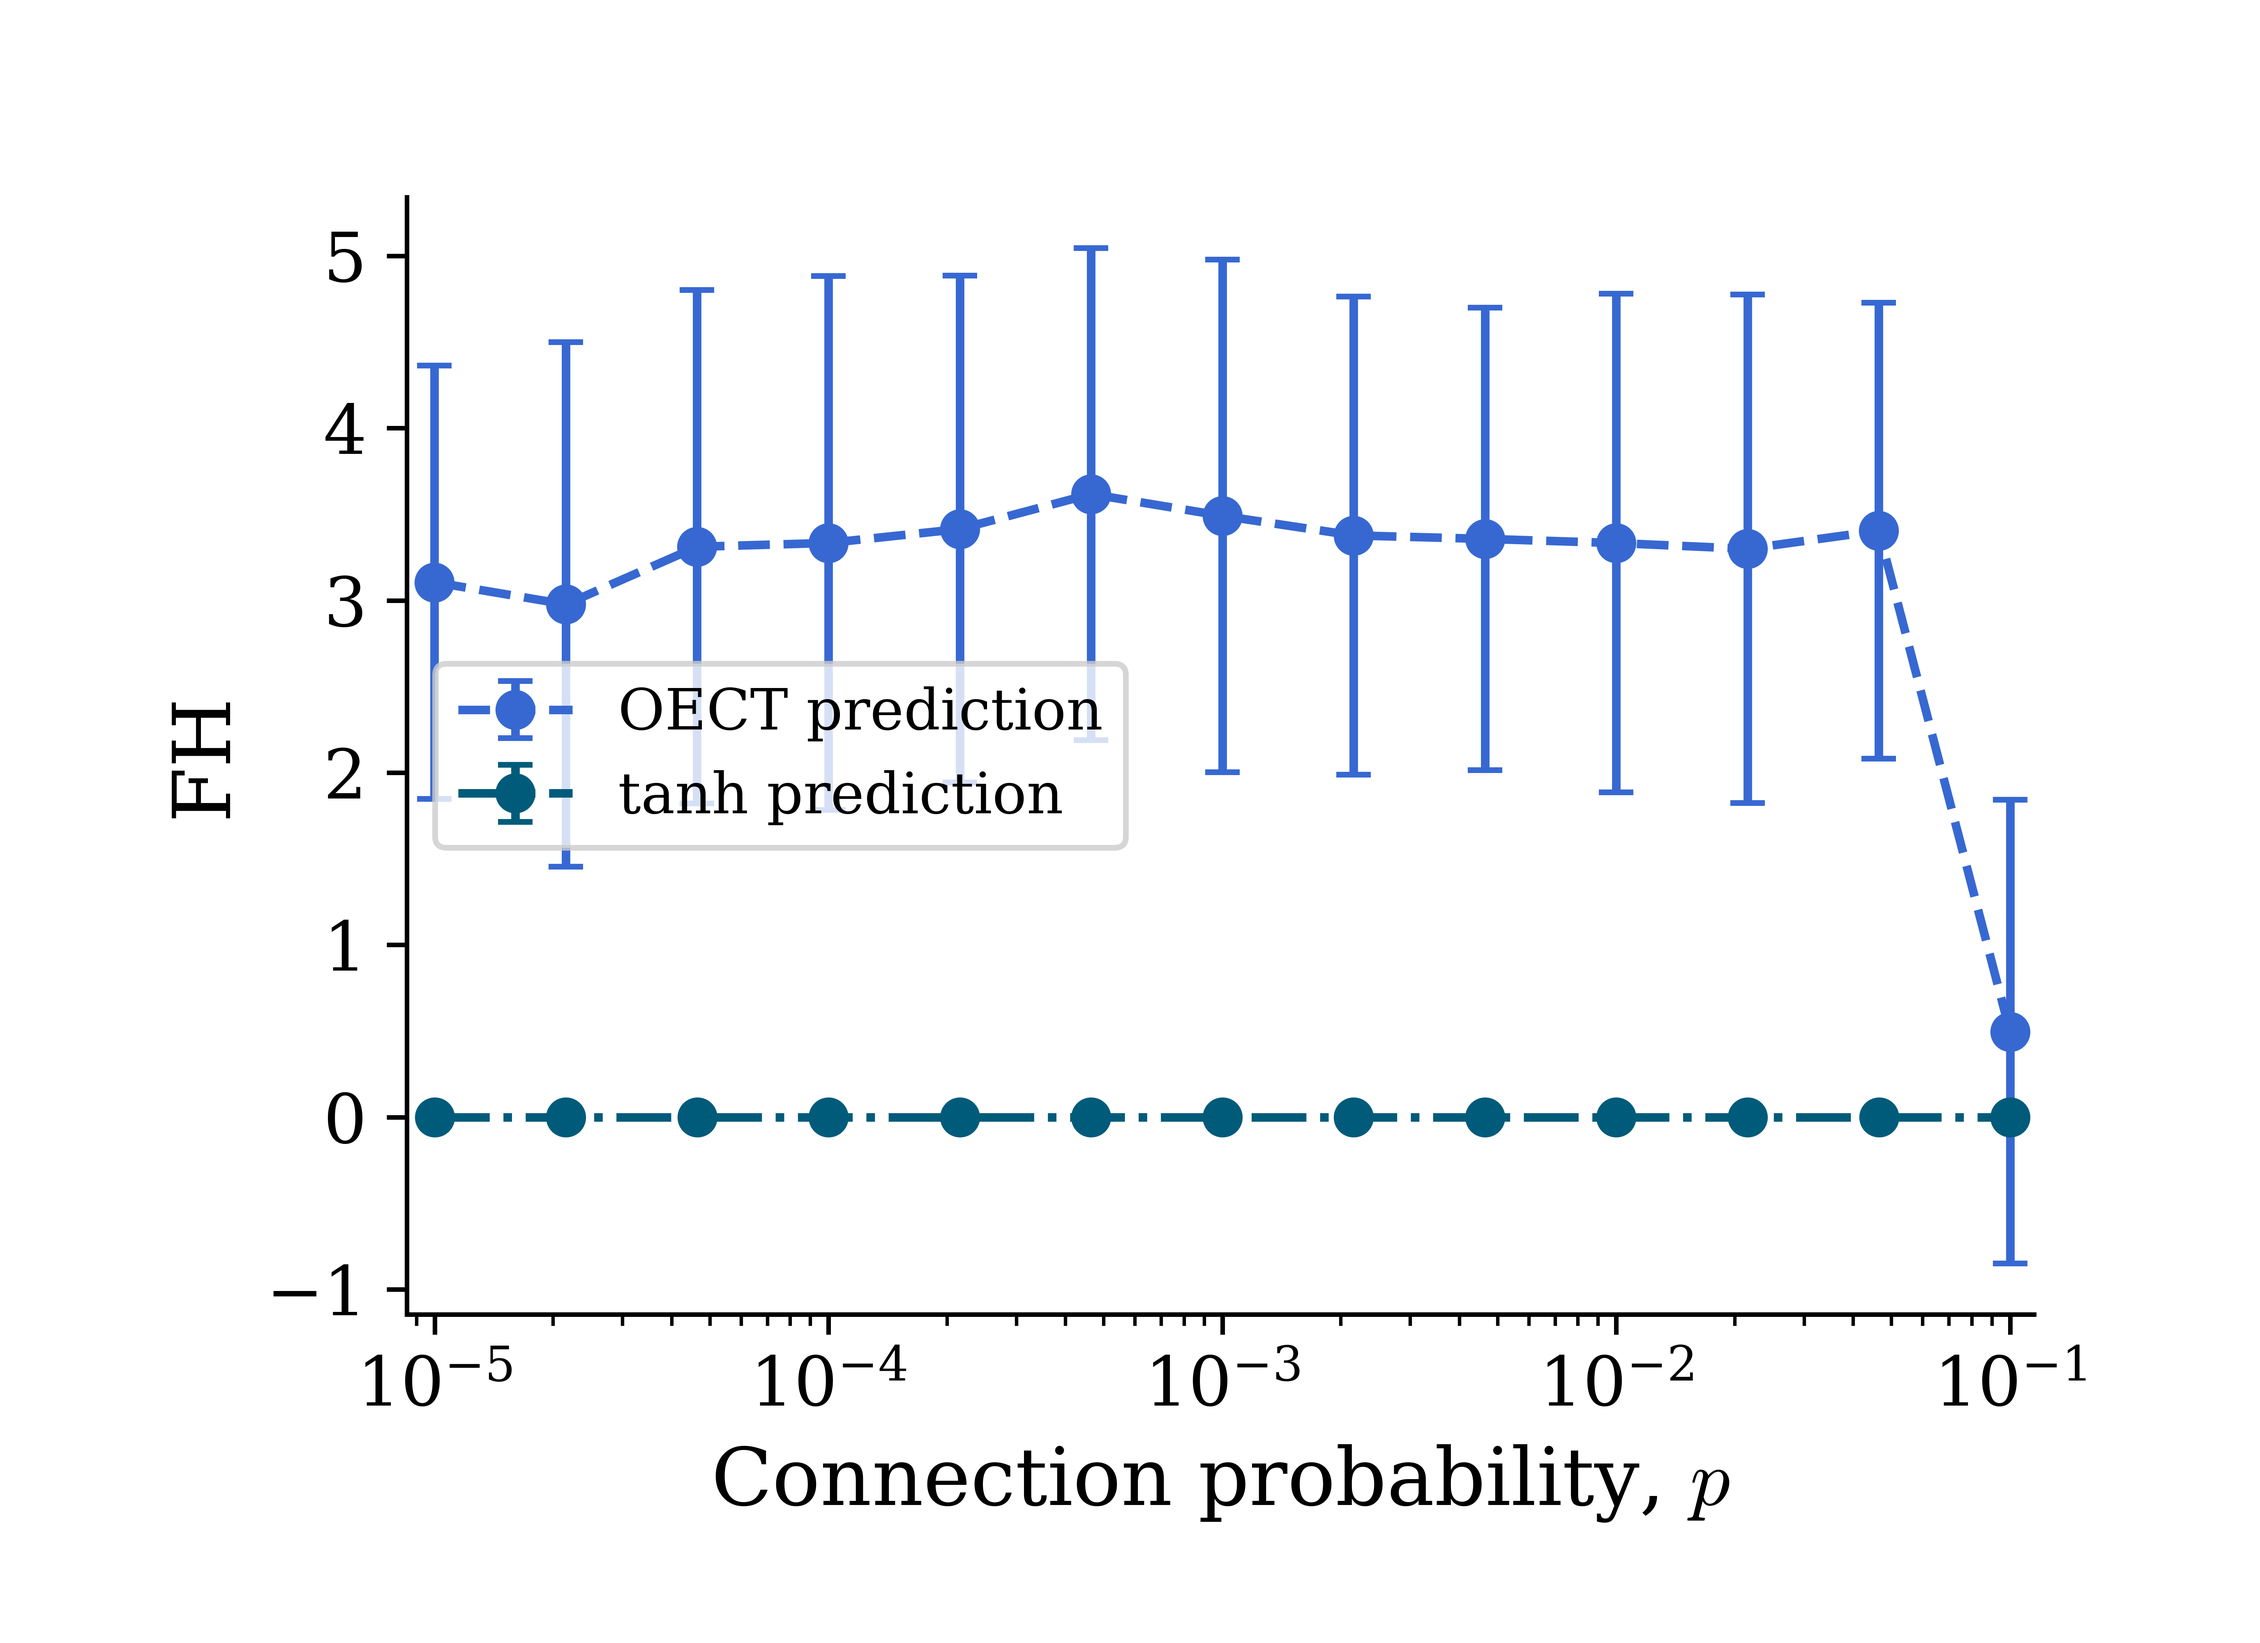
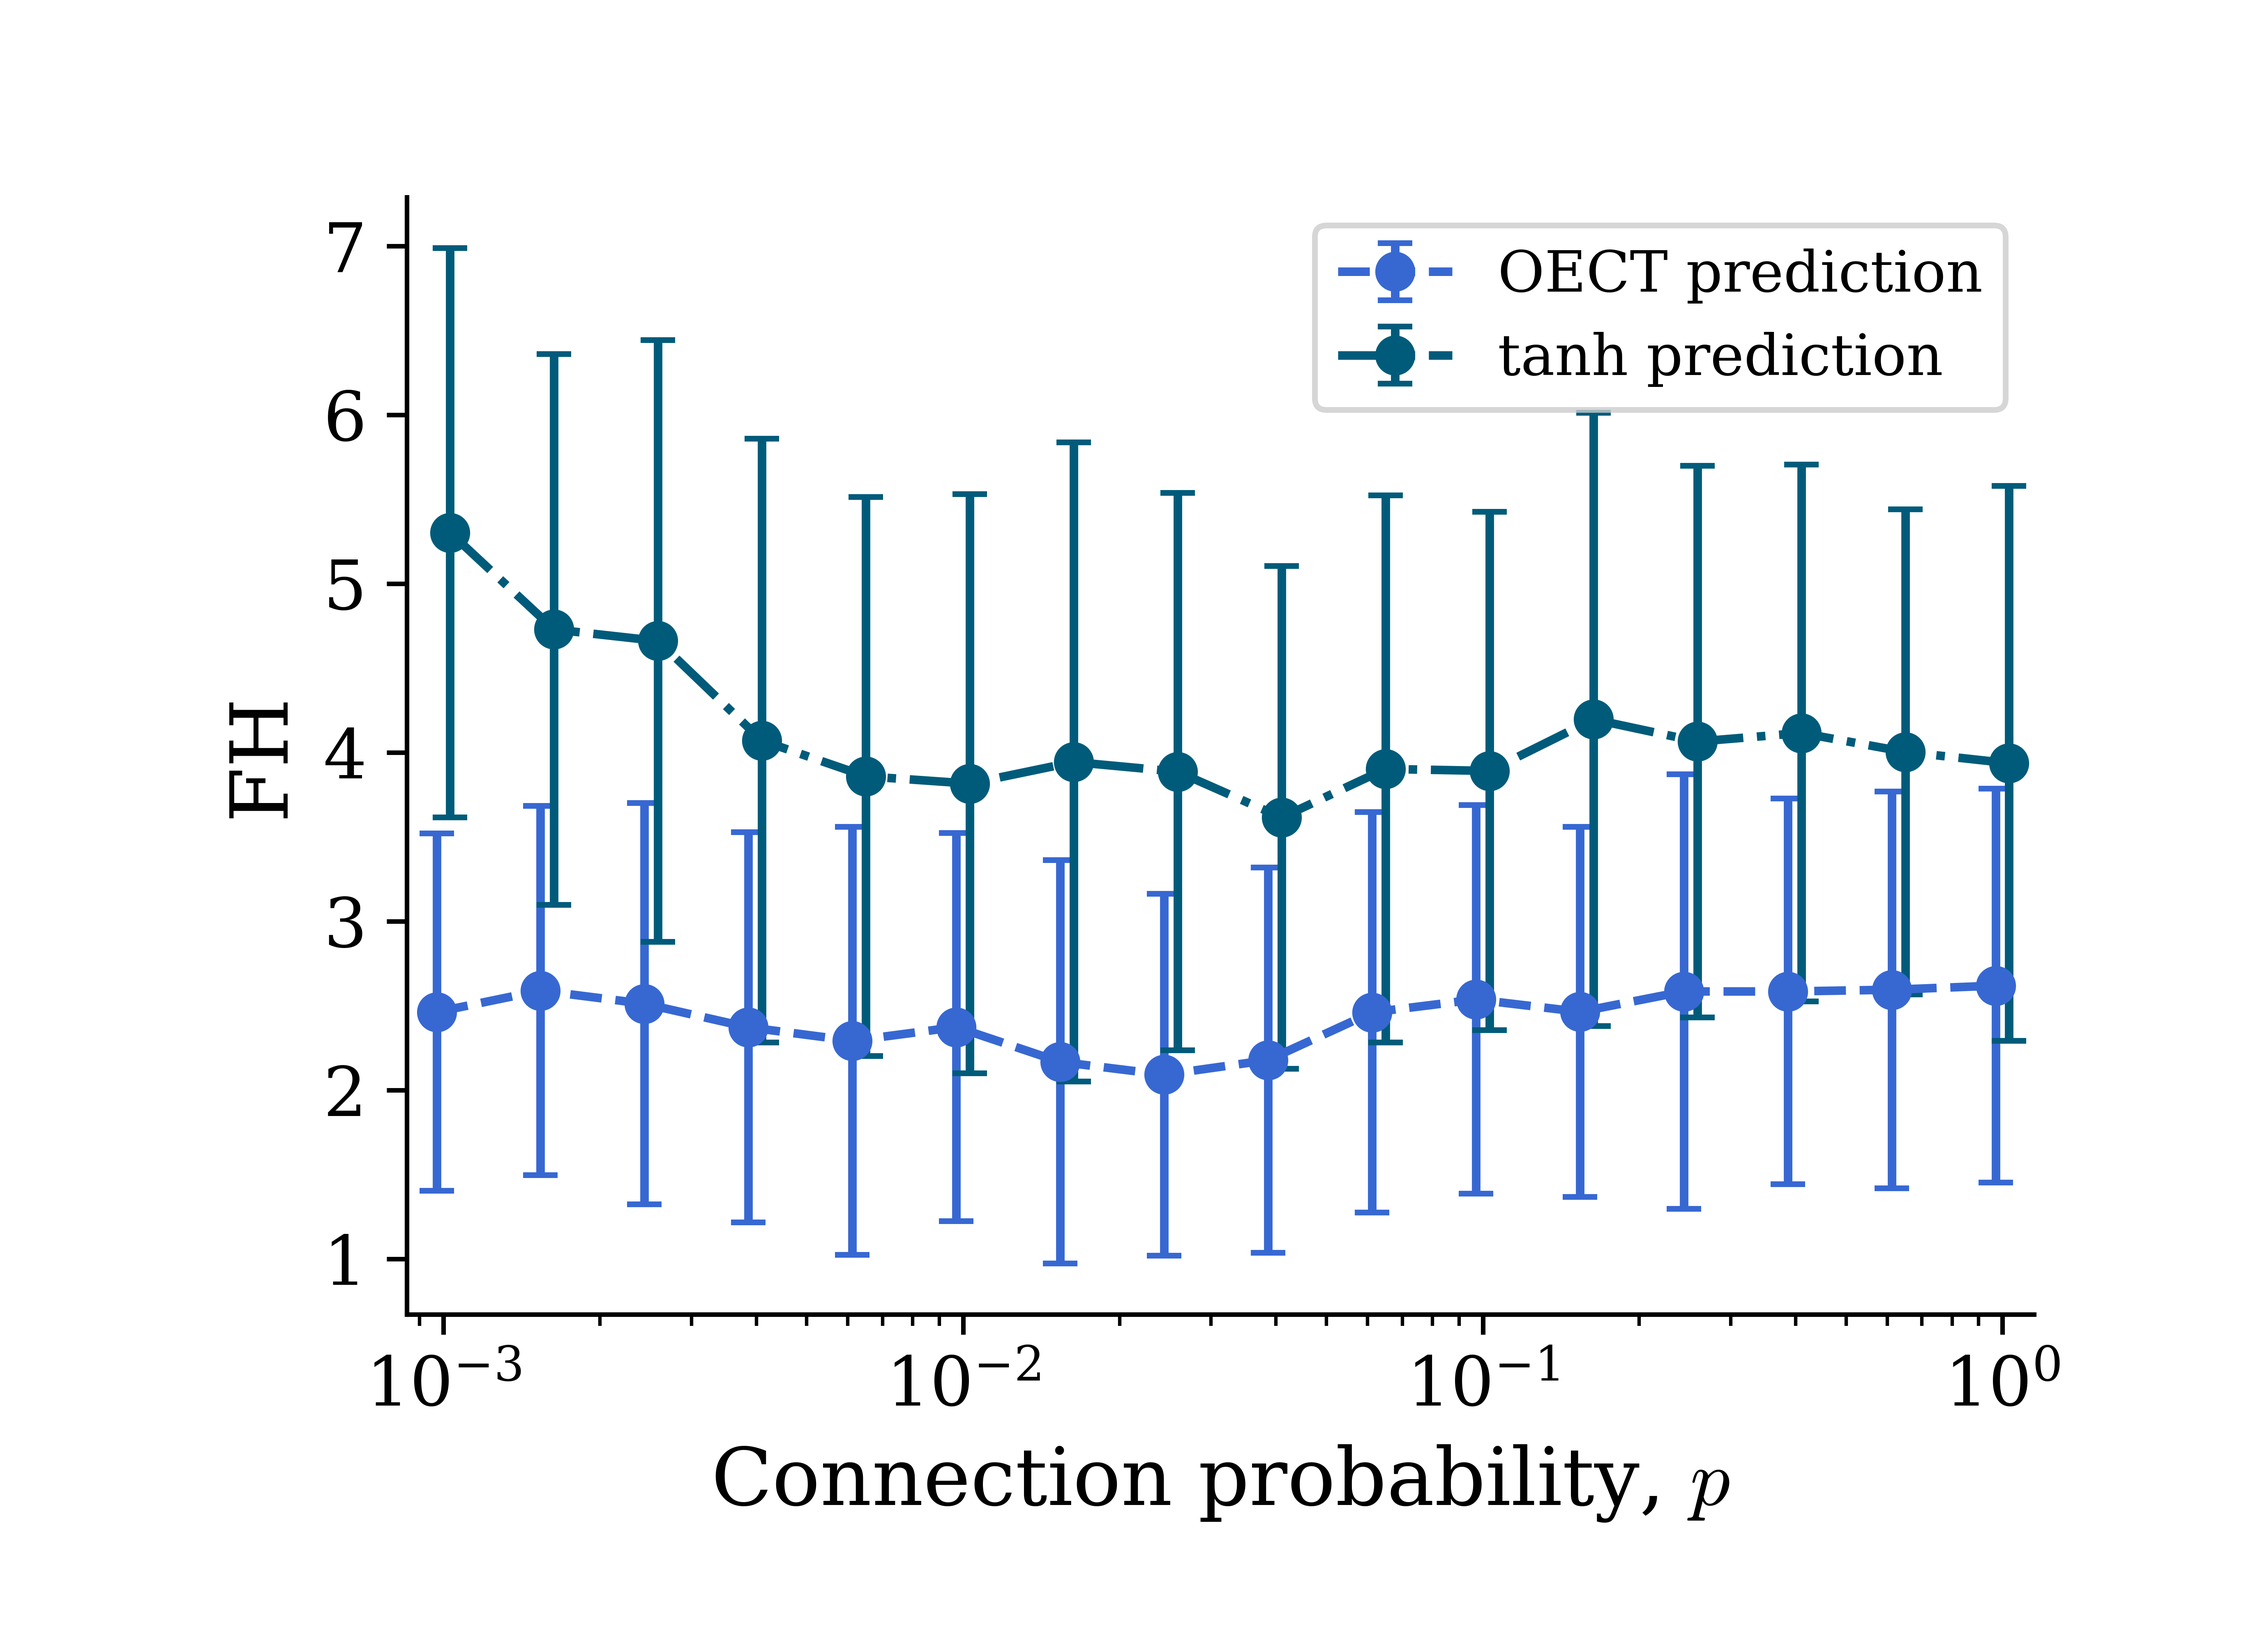
Fixed sparsity issue, concerning plot (#9)
* Fixed sparsity issue, concerning plot

* updated data and figure

---------

diff --git a/run_sparsity.py b/run_sparsity.py
@@ -37,8 +37,6 @@ def run_OECT_prediction(
     Vdinit, R, Rg, Cg, Vp, Kp, W, L = generate_OECT_parameters(n, parameters)
 
     A = erdos_renyi_network(n, p, r_dist)
-    while nx.is_connected(nx.Graph(A)):
-        A = erdos_renyi_network(n, p, r_dist)
 
     w_in = input_layer(D, n, w_in_sigma)
 
@@ -252,7 +250,7 @@ for p in plist:
             )
         )
 
-
+print("Running", len(arglist), "OECT jobs.", flush=True)
 Parallel(n_jobs=n_processes)(delayed(run_OECT_prediction)(*arg) for arg in arglist)
 
 
@@ -272,4 +270,5 @@ for p in plist:
             )
         )
 
+print("Running", len(arglist), "tanh jobs.", flush=True)
 Parallel(n_jobs=n_processes)(delayed(run_tanh_prediction)(*arg) for arg in arglist)
